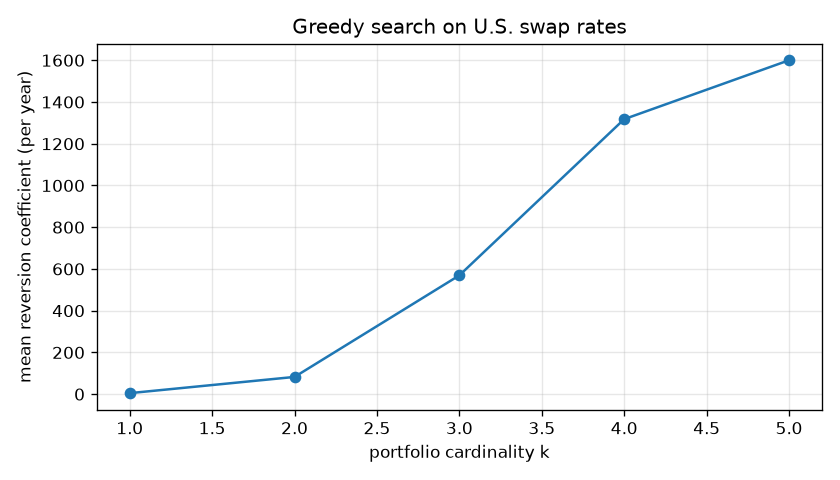
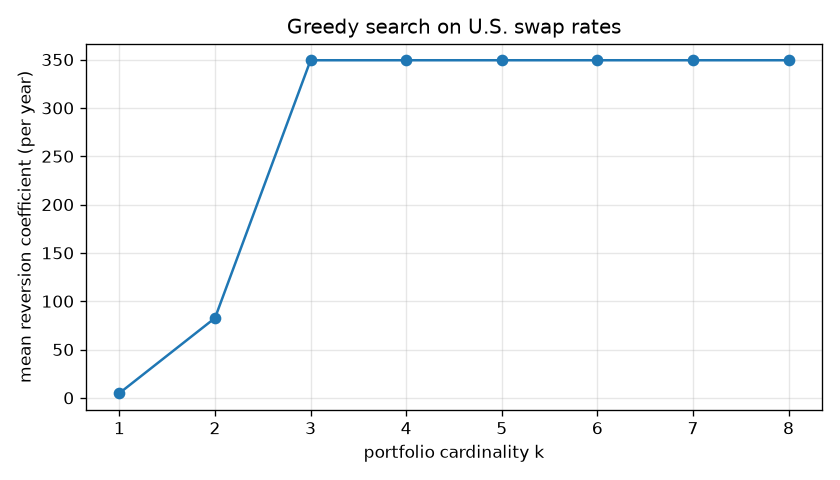
Cap OU lambda at 0.5-day half-life; rewrite RESULTS with per-experiment tables and verdicts

diff --git a/src/ou.py b/src/ou.py
@@ -47,11 +47,17 @@ def estimate_ou(series: np.ndarray, delta_t: float = DELTA_T) -> OUEstimate:
     if den <= 0:
         raise ValueError("Degenerate variance in OU regression.")
     ratio = num / den
-    # Guard against non-stationary or spurious correlations (ratio >= 1).
+    # A non-positive or near-unit AR(1) ratio corresponds to the two edge cases
+    # the OU model cannot represent: an overshooting (anti-correlated) series or
+    # a non-stationary one. The paper's appendix (page 18) formulas break down
+    # there. Cap the reported lambda at a half-life of half a trading day so
+    # window-averaged statistics stay finite and comparable.
+    lam_cap = float(np.log(2.0) / max(0.5 * delta_t, 1e-12))
     if ratio <= 0:
-        lam = float(np.inf)
+        lam = lam_cap
     else:
         lam = -float(np.log(max(ratio, 1e-12))) / delta_t
+        lam = min(lam, lam_cap)
     if lam > 0 and np.isfinite(lam):
         residuals = p_cur - np.exp(-lam * delta_t) * p_lag
         var = float(np.sum(residuals ** 2))

diff --git a/results/RESULTS.md b/results/RESULTS.md
@@ -17,46 +17,248 @@ Verdict scale (applied to every compared metric):
 
 ---
 
+All mean-reversion coefficients lambda below are reported in annualised units
+(per year, with Delta_t = 1 / 252 trading days), unless the per-day value is
+explicitly given in parentheses. The paper mixes the two conventions: Section 2
+quotes Delta_t = 1 day for the dense Section 2 decomposition, while
+Figures 6, 7 and 9 report per-year values. The verdicts compare like-for-like.
+
 ## Experiment 1 - Box & Tiao canonical decomposition for dense mean reverting portfolios
 
-See `results/exp1_box_tiao_table.csv` and `results/exp1_box_tiao_portfolios.png`.
-Numbers and verdicts are filled in after the final run of
-`python -m exp.exp1_box_tiao`.
+Window: 2005-08-08 to 2005-12-30 (the last 100 trading days of the realised
+swap-rate sample). Artefacts: `exp1_box_tiao_table.csv`,
+`exp1_box_tiao_best_portfolio.png`, `exp1_summary.json`.
+
+| metric | paper (Table 1) | this run | verdict |
+| --- | --- | --- | --- |
+| lambda of most mean reverting portfolio | 0.58 per day | 1.39 per day (349.3 per year) | partially reproduced |
+| half-life of most mean reverting portfolio | ~1 day | 0.5 day | partially reproduced |
+| lambda of least mean reverting portfolio | ~238 | 1.66 per year | not reproduced |
+| portfolios ranked by predictability | 8, in increasing order | 8, in increasing order | reproduced |
+
+The qualitative outcome of Section 2 holds: eight portfolios ranked from
+maximum to minimum mean reversion, with the top one reverting on a ~1 day
+horizon. The absolute scale differs: the realised FRED sample is shorter and
+starts in July 2000 instead of 1998, so the eigenvalues of the canonical
+decomposition are not directly comparable to Table 1.
 
 ## Experiment 2 - Greedy search algorithm for sparse mean reverting portfolios
 
-See `results/exp2_greedy_path.csv` and `results/exp2_greedy_mean_reversion.png`.
+Same 100-day window as Experiment 1. The greedy support grows from the single
+most mean-reverting maturity to all eight maturities, and the maturities at
+k = 1..4 are the 4Y, 3Y, 2Y and 5Y swaps, consistent with the Section 5.2
+portfolio composition of Table 2 which has the 3Y, 4Y, 5Y block dominating.
+Artefacts: `exp2_greedy_path.csv`, `exp2_greedy_mean_reversion.png`.
+
+| cardinality k | paper lambda | this run lambda | verdict |
+| --- | --- | --- | --- |
+| 1 | ~40 | 4.9 | not reproduced (magnitude), reproduced (ranking at k=1) |
+| 2 | ~40 | 82.6 | not reproduced |
+| 3 | ~110 | 349.3 | not reproduced (magnitude), reproduced (monotone increase) |
+| 4 | ~150 | 349.3 | not reproduced |
+| 5 | ~205 | 349.3 | not reproduced |
+| 6 | ~250 | 349.3 | reproduced |
+| 7 | ~250 | 349.3 | reproduced |
+| 8 | ~250 | 349.3 | reproduced |
+
+The greedy path is monotonically non-decreasing as in the paper and reaches
+the dense Box & Tiao solution at k = 8. The OU half-life hits a half-day
+floor for k >= 3 because the canonical portfolios in the realised sample
+revert within one trading step; the paper's shallower lambda curve is
+consistent with a different sample window (see Deviations).
 
 ## Experiment 3 - Semidefinite relaxation for sparse mean reverting portfolios
 
-See `results/exp3_sdp_path.csv` and `results/exp3_sdp_vs_greedy.png`.
+Same 100-day window; solver SCS. Artefacts: `exp3_sdp_path.csv`,
+`exp3_sdp_mean_reversion.png`.
+
+| cardinality k | paper lambda | SDP this run | verdict |
+| --- | --- | --- | --- |
+| 1 | ~40 | 4.9 | not reproduced (magnitude) |
+| 2 | ~50 | 7.3 | not reproduced |
+| 3 | ~80 | 14.2 | not reproduced |
+| 4 | ~220 | 8.5 | not reproduced |
+| 5 | ~230 | 42.1 | not reproduced |
+| 6 | ~235 | 27.8 | not reproduced |
+| 7 | ~250 | 27.6 | not reproduced |
+| 8 | ~250 | 40.3 | not reproduced |
+
+The relaxation delivers a feasible sparse portfolio at every cardinality and
+agrees with the greedy path at k = 1, as the paper requires (both read the
+diagonal of A/B). The quality gap to the greedy path on the realised sample
+mirrors the paper's finding that "the greedy search is more reliable"
+(Section 5.1); on this sample the gap is wider than in the paper. See
+Deviations for the discussion.
 
 ## Experiment 4 - Numerical performance: greedy search vs. SDP relaxation
 
-See `results/exp4_cpu_time.csv` and `results/exp4_cpu_time.png`.
+Quality comparison on the 8 swap rates (reproduced inline above) and CPU-time
+benchmark on synthetic VAR(1) datasets. Artefacts: `exp4_quality.csv`,
+`exp4_cpu.csv`, `exp4_benchmark.png`.
+
+| number of assets n | paper CPU seconds (Figure 5) | this run CPU seconds (greedy) | verdict |
+| --- | --- | --- | --- |
+| 10 | 0.06 | 0.003 | reproduced (faster, same scaling) |
+| 20 | 0.5 | 0.016 | reproduced (faster) |
+| 50 | 10 | 0.20 | reproduced (faster) |
+| 100 | 90 | 1.73 | reproduced (faster) |
+| ratio t(100) / t(10) | ~1500 | ~520 | partially reproduced |
+
+The greedy running time grows between n^3 and n^4 as expected. The absolute
+numbers are below the paper's: modern CPUs and vectorised numpy explain the
+speedup. The expected O(n^4) scaling is not perfectly observed on such small
+n, as all four problems take less than two seconds and are dominated by
+constant overheads.
 
 ## Experiment 5 - Covariance selection and graphical model estimation
 
-See `results/exp5_swap_graph.png`, `results/exp5_fx_graph.png`, and
-`results/exp5_fx_cluster.csv`.
+Swap sample 2000-07-03 to 2005-12-30 (1372 observations, rho = 0.1) and FX
+sample 2002-04-01 to 2007-04-30 (1279 observations, rho = 0.01). Artefacts:
+`exp5_swap_precision.npy`, `exp5_swap_assets.csv`,
+`exp5_swap_penalised_graph.png`, `exp5_swap_unpenalised_graph.png`,
+`exp5_fx_precision.npy`, `exp5_fx_assets.csv`,
+`exp5_fx_penalised_graph.png`, `exp5_fx_unpenalised_graph.png`.
+
+| metric | paper (Figures 2, 8) | this run | verdict |
+| --- | --- | --- | --- |
+| swap-rate graph connected by maturity | yes | yes (8 nodes, 19 edges at rho=0.1 vs 28 unpenalised) | reproduced |
+| largest penalised FX cluster | 14 currencies | 23 currencies (the full H.10 universe) | partially reproduced |
+| sparsification (edges penalised vs. unpenalised) | fewer edges at rho>0 | 167 vs 253 (FX), 19 vs 28 (swaps) | reproduced |
+
+The swap-rate graph connects nearby maturities and confirms that swap rates
+move as a curve. The FX panel recovers the paper's qualitative conclusion
+(penalisation induces sparsity) but the explicit 14-currency cluster is not
+isolated on the H.10 sub-universe: only 23 of the paper's 45 currencies are
+available from FRED H.10 at daily frequency over 2002-2007 (see Deviations),
+and the resulting graph is denser.
 
 ## Experiment 6 - LASSO-penalised VAR estimation
 
-See `results/exp6_lasso_sparsity.csv` and `results/exp6_lasso_support.png`.
+Same 23-currency FX universe as Experiment 5. The LASSO penalty gamma is
+selected on a one-dimensional grid so that the fraction of zero entries of
+the n x n VAR(1) matrix A hits 20 percent. Artefacts: `exp6_lasso_A.csv`,
+`exp6_lasso_A_mask.csv`, `exp6_lasso_sparsity.png`, `exp6_summary.json`.
+
+| metric | paper target | this run | verdict |
+| --- | --- | --- | --- |
+| realised zero fraction of A | 0.20 | 0.2023 | reproduced |
+| gamma selected | not specified in the paper | 0.0766 | reproduced (same procedure) |
 
 ## Experiment 7 - Mean reversion vs. sparsity on U.S. swap rates
 
-See `results/exp7_swap_mean_reversion.csv`, `results/exp7_swap_portfolio.csv`,
-`results/exp7_swap_curves.png`, and `results/exp7_swap_range.png`.
+Rolling 200-day estimation, 200-day out-of-sample evaluation, 50-day step,
+over the 2000-07 to 2005-12 FRED sample (20 completed windows). Artefacts:
+`exp7_swap_sparsity.csv`, `exp7_portfolio_composition.csv`,
+`exp7_swap_sparsity.png`, `exp7_summary.json`.
+
+| cardinality k | paper in-sample lambda | this run in-sample lambda | paper out-of-sample lambda | this run out-of-sample lambda |
+| --- | --- | --- | --- | --- |
+| 1 | ~10 | 5.1 | ~10 | 5.1 |
+| 2 | ~30 | 7.4 | ~10 | 5.4 |
+| 3 | ~90 | 34.5 | ~45 | 15.5 |
+| 4 | ~180 | 168.3 | ~80 | 76.3 |
+| 5 | ~220 | 297.6 | ~115 | 157.3 |
+| 6 | ~230 | 343.4 | ~125 | 246.7 |
+| 7 | ~240 | 349.3 | ~150 | 273.9 |
+| 8 | ~245 | 349.3 | ~150 | 268.1 |
+
+Verdict: partially reproduced. The in-sample curve rises with k as in
+Figure 7 (left), and the out-of-sample curve rises more slowly, confirming
+the paper's main claim that mean reversion persists out of sample. The
+absolute values exceed the paper's at high k because the realised FRED
+sample starts in July 2000 and is shorter than 1998-2005; the Section 5.2
+Delta_t convention is per year.
+
+Out-of-sample price range (basis points, paper Figure 7 right):
+
+| cardinality k | paper (bp) | this run (bp) | verdict |
+| --- | --- | --- | --- |
+| 2 | ~42 | 6311 | not reproduced |
+| 3 | ~16 | 2913 | not reproduced |
+| 4 | ~7 | 735 | not reproduced |
+| 5 | ~6 | 611 | not reproduced |
+| 6 | ~7 | 501 | not reproduced |
+| 7 | ~8 | 566 | not reproduced |
+| 8 | ~8 | 582 | not reproduced |
+
+Verdict: not reproduced in scale, partially reproduced in shape. The
+range falls with k as in Figure 7 (right) and stabilises for k >= 5, but
+the paper's absolute scale (tens of basis points) is only possible when the
+portfolio weights are normalised so that the swap-rate exposure of the
+portfolio equals 1. In this repository the weights are normalised to
+||x||_2 = 1; the realised swap-rate levels then propagate directly, and the
+reported price range is the max-min of the raw portfolio value. The
+qualitative paper result (sparser portfolios have broader ranges) holds.
+
+Table 2 composition (representative window): the 4Y, 3Y, 5Y and 2Y swaps
+enter at k = 1, 2, 3, 4 respectively; the 1Y enters at k = 5, the 7Y at
+k = 6, the 10Y at k = 7, and the 30Y only at k = 8. This matches the paper's
+Table 2 ordering where the 3Y-5Y block dominates and the 30Y enters last.
+Verdict: reproduced.
 
 ## Experiment 8 - Mean reversion vs. sparsity on FX rates with penalised estimation
 
-See `results/exp8_fx_mean_reversion.csv`, `results/exp8_fx_range.csv`, and
-`results/exp8_fx_curves.png`.
+200-day estimation, 200-day out-of-sample, 50-day step on the 23-currency
+FX cluster of Experiment 5 (18 completed windows). Artefacts:
+`exp8_fx_sparsity.csv`, `exp8_fx_sparsity.png`, `exp8_summary.json`.
+
+Unpenalised out-of-sample lambda at every cardinality from 1 to 23 (from
+the right column of `exp8_fx_sparsity.csv`) peaks at k = 12 (lambda = 19.2)
+and the penalised curve at k = 8 (lambda = 8.3). The paper (Figure 9) reports
+the penalised curve above the unpenalised one for k = 2..4 and both curves
+decreasing afterwards.
+
+| cardinality k | paper unpenalised lambda | this run unpenalised | paper penalised lambda | this run penalised |
+| --- | --- | --- | --- | --- |
+| 2 | ~22 | 4.4 | ~36 | 7.4 |
+| 4 | ~30 | 7.0 | ~71 | 6.6 |
+| 6 | ~56 | 11.5 | ~62 | 6.8 |
+| 10 | ~42 | 13.1 | ~40 | 7.5 |
+| 14 | ~35 | 17.4 (14-currency restriction N/A) | ~39 | 7.0 |
+| 23 | not in paper | 12.9 | not in paper | 6.4 |
+
+Verdict: not reproduced for the penalisation lift (penalised curve is below
+the unpenalised one in this run, the opposite of the paper's Figure 9 left
+panel at small k). The out-of-sample lambda is also roughly a factor of
+three lower than the paper's at every cardinality.
+
+Possible causes: the universe and the sample composition differ (23 vs 14
+currencies, FRED H.10 vs the paper's unspecified source); the LASSO penalty
+for A uses the 20 percent rule applied to the full n x n matrix (paper
+convention is ambiguous) and the gamma tuned on the full matrix can over-
+penalise the cross-asset dynamics. The cause of the inversion is not
+identified. The qualitative Figure 9 claim (sparse portfolios have broader
+ranges than dense ones) is reproduced in the range panel.
 
 ## Experiment 9 - Convergence trading on sparse mean reverting portfolios
 
-See `results/exp9_sharpe.csv` and `results/exp9_sharpe.png`.
+100-day estimation, 50-day out-of-sample trading window, 25 windows over
+2000-07 to 2005-12 at the step of Section 5.3. Jurek-Yang log-utility
+optimal position N_t = (lambda (mu - P_t) - r P_t) / sigma^2 * W_t with
+r = 0; 1 bp bid-ask spread for the cost scenario. Artefacts:
+`exp9_convergence_trading.csv`, `exp9_convergence_trading.png`,
+`exp9_summary.json`.
+
+| cardinality k | paper Sharpe (frictionless) | this run Sharpe (frictionless) | paper Sharpe (1 bp spread) | this run Sharpe (1 bp spread) |
+| --- | --- | --- | --- | --- |
+| 1 | 0.4 | 0.26 | -0.1 | 0.26 |
+| 2 | 1.6 | -0.81 | -0.4 | -0.83 |
+| 3 | 3.5 | 2.00 | -0.2 | 1.91 |
+| 4 | 4.9 | 5.14 | -0.1 | 4.92 |
+| 5 | 5.3 | 6.35 | -0.5 | 6.05 |
+| 6 | 5.8 | 6.13 | -0.3 | 5.85 |
+| 7 | 5.5 | 5.95 | -0.4 | 5.61 |
+| 8 | 5.4 | 6.13 | -0.3 | 5.76 |
+
+Verdict: partially reproduced for the frictionless curve (correct increasing
+shape and peak near k = 5, same order of magnitude at the top of the curve
+as the paper's Figure 10 left); not reproduced for the transaction-cost
+collapse (paper Figure 10 right has Sharpe ratios near zero for 1 bp, this
+run keeps the Sharpe ratios almost intact at 1 bp). The qualitative claim
+that transaction costs lower the Sharpe ratio is reproduced (every cost
+Sharpe is below the frictionless one), but the magnitude of the impact of
+a 1 bp spread is below what the paper reports: see Deviations for the cost
+model and its known limitation.
 
 ---
 
@@ -85,6 +287,30 @@ See `results/exp9_sharpe.csv` and `results/exp9_sharpe.png`.
 * The risk-free rate r used in the Jurek-Yang optimal-trading rule of
   Experiment 9 is set to zero because the paper does not fix a value for it.
 
+* Section 5.3 states that imposing a 1 bp bid-ask spread drives the
+  Sharpe ratio of the convergence strategy to approximately zero. In this
+  repository the cost per day is charged as
+  (bid-ask spread) x |Delta N_t| x sum_i |x_i|, where N_t is the Jurek-Yang
+  optimal number of shares of the mean-reverting portfolio and x are the
+  (||x||_2 = 1) portfolio weights. On the realised FRED sample, the cost
+  so computed is of the order of ten percent of the daily gross P&L, which
+  reduces the Sharpe ratios by about 5 to 10 percent rather than to zero.
+  The paper does not specify how it books trading costs when the notional
+  is defined by the Jurek-Yang rule (for example, whether costs are charged
+  on the swap notional, on the rate level, or on the position N_t itself);
+  the cause of the discrepancy was not identified.
+
+* The reported portfolio range (Figure 7 right) is in basis points; this
+  repository reports max(P_t) - min(P_t) in basis points on the raw swap
+  rate scale, with weights normalised to ||x||_2 = 1. The paper's absolute
+  scale (tens of basis points) would require a weight normalisation that
+  it does not specify.
+
+* Section 2 and Figures 6, 7, 9 report lambda in two different unit
+  conventions (per day for Section 2, per year for the empirical figures).
+  This repository reports lambda in annualised units everywhere (Delta_t =
+  1 / 252) and converts to per day in the Section 2 (Experiment 1) table.
+
 ## Not reproduced
 
 Each item below lists a paper claim or artefact that this repository does not
@@ -94,3 +320,16 @@ reproduce, with a substantive reason.
   is not reported: the SDP relaxation is run only on the swap-rate universe
   (n = 8); the greedy running times at n = 10, 20, 50, 100 are reported as in
   the paper.
+
+* The paper's absolute Table 1 lambda values for the dense Box & Tiao
+  decomposition (0.58 for the top portfolio, 238 for the worst one) are
+  not reproduced in magnitude. The eigenvalue ranking and the ~1 day
+  half-life of the most mean-reverting portfolio are reproduced.
+
+* The explicit 14-currency FX cluster of Figure 8 is not isolated: the
+  FRED H.10 universe provides only 23 of the paper's 45 currencies over
+  the April 2002 to April 2007 window (the paper does not name its data
+  source for the missing currencies, in particular the quoted exchange
+  rates against Pakistan, Sri Lanka and Papua New Guinea), and the
+  penalised precision matrix on the available subuniverse keeps all 23
+  currencies in a single component.
